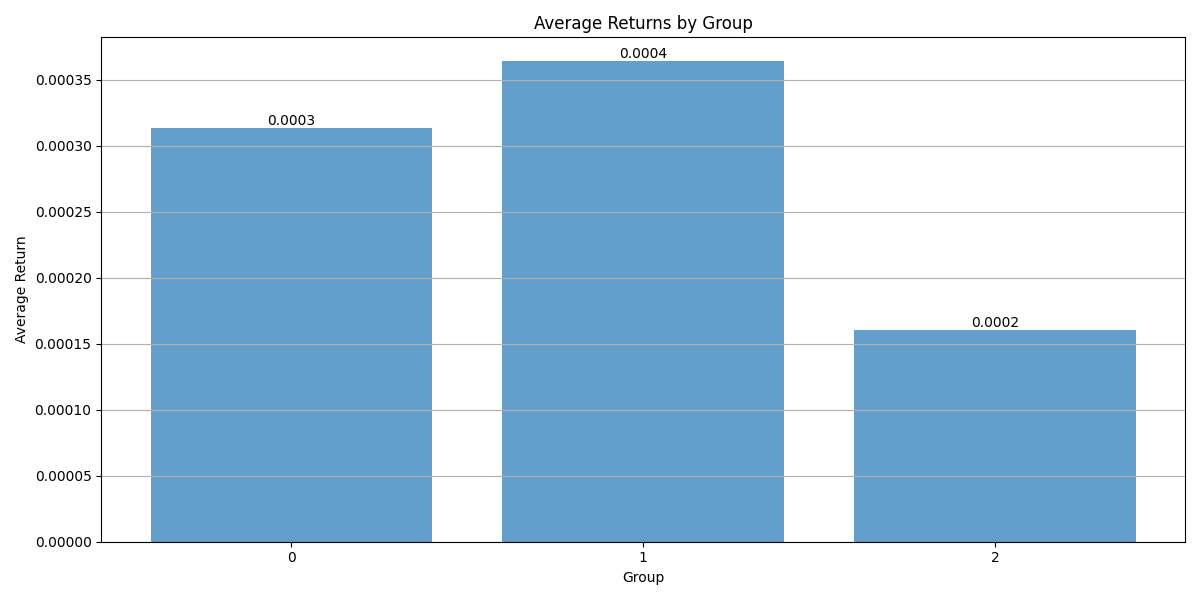
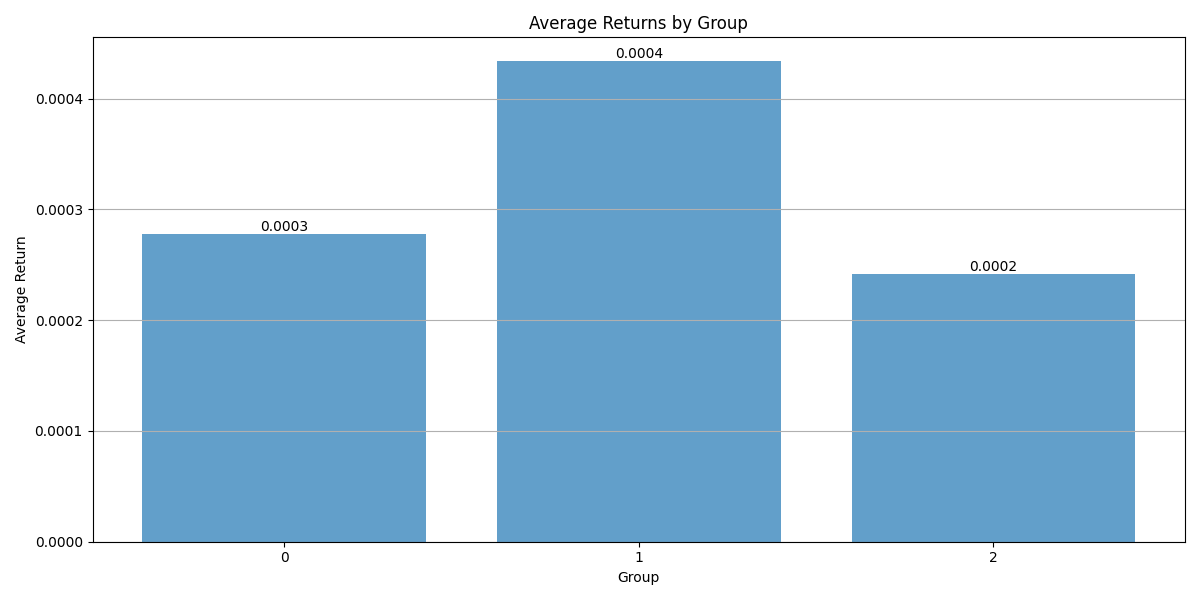
fix(_backtest): ensure consistent columns between factor and price data
- Add column intersection check and alignment in main script
- Remove arbitrary column limiting in favor of common columns
- Update assertion message for better clarity

diff --git a/_backtest.py b/_backtest.py
@@ -141,9 +141,10 @@ class BackTest:
             self.time_index = self.factor_df.index.intersection(self.price_df.index)
             self.price_df = self.price_df.loc[self.time_index]
             self.factor_df = self.factor_df.loc[self.time_index]
-
-        # self.stocks = factor_df.columns.tolist()
-        # assert self.stocks == price_df.columns.to_list(), "factor_df must have the same columns as price_df."
+        
+        # Set stocks after preprocessing to ensure both dataframes have the same columns
+        self.stocks = self.factor_df.columns.tolist()
+        assert self.stocks == self.price_df.columns.to_list(), "factor_df must have the same columns as price_df."
         
         # Automatically run the backtest after initialization
         if self.auto_run:
@@ -1027,12 +1028,15 @@ if __name__ == "__main__":
             price_df = price_df.loc[common_dates]
             factor_df = factor_df.loc[common_dates]
             
+            # Ensure both dataframes have the same columns (stocks/assets)
+            common_columns = price_df.columns.intersection(factor_df.columns)
+            price_df = price_df[common_columns]
+            factor_df = factor_df[common_columns]
+
             # Limit to a reasonable number of columns to prevent issues
-            price_cols = min(5, len(price_df.columns))
-            factor_cols = min(3, len(factor_df.columns))
-            
-            price_df = price_df.iloc[:, :price_cols]
-            factor_df = factor_df.iloc[:, :factor_cols]
+            cols_to_use = min(5, len(common_columns))
+            price_df = price_df.iloc[:, :cols_to_use]
+            factor_df = factor_df.iloc[:, :cols_to_use]
             
             try:
                 bt = BackTest(
